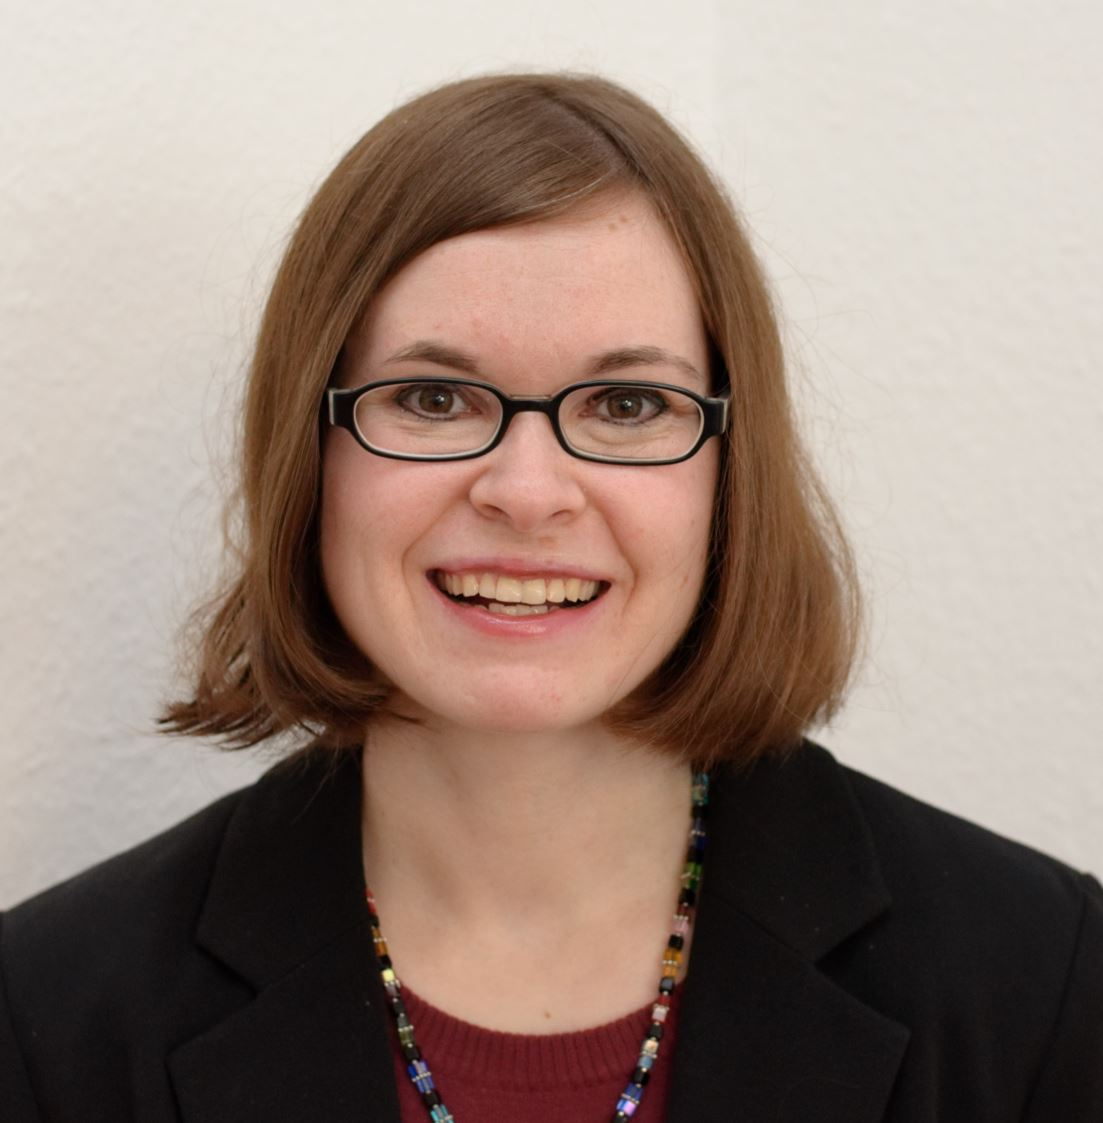
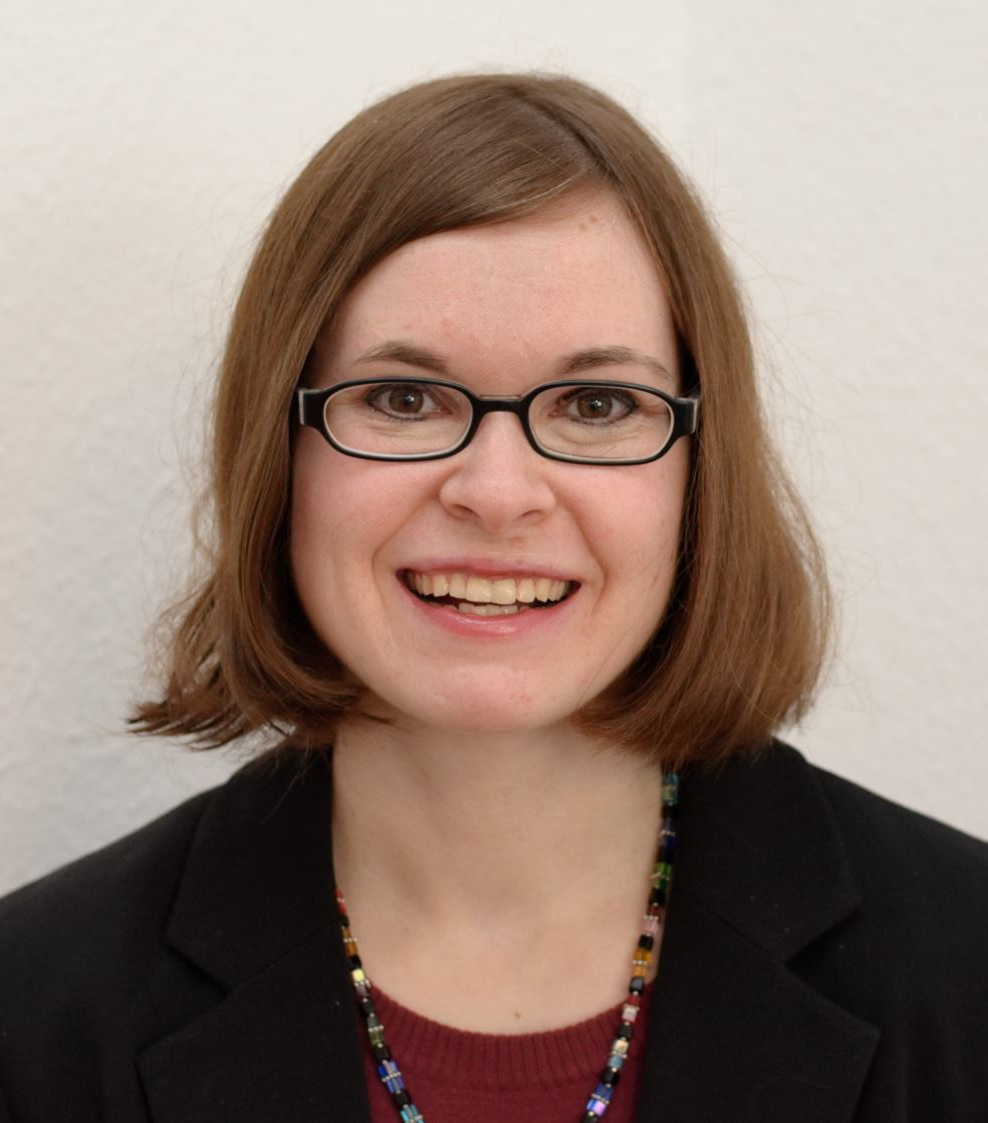
Fix aspect ratio

diff --git a/index.html b/index.html
@@ -33,7 +33,7 @@
 <div class="container">
     <div class="row">
         <div id="home" class="span3">
-            <img src="assets/img/portrait.jpeg" width="300" height="250"/>
+            <img src="assets/img/portrait.jpeg" width="220" height="250"/>
 	    <br><br>
 	    <h2 id="cv">Contact</h2>
 	    <p>Prof. Melanie Krause, Ph.D.<br>Hamburg University<br>Economics Department<br>Von-Melle-Park 5<br>20146 Hamburg, Germany<br><a href="tel:+4940428382082">+49 40 42838 2082</a><br><a href="mailto:melanie.krause@wiso.uni-hamburg.de">melanie.krause@uni-hamburg.de</a></p>
